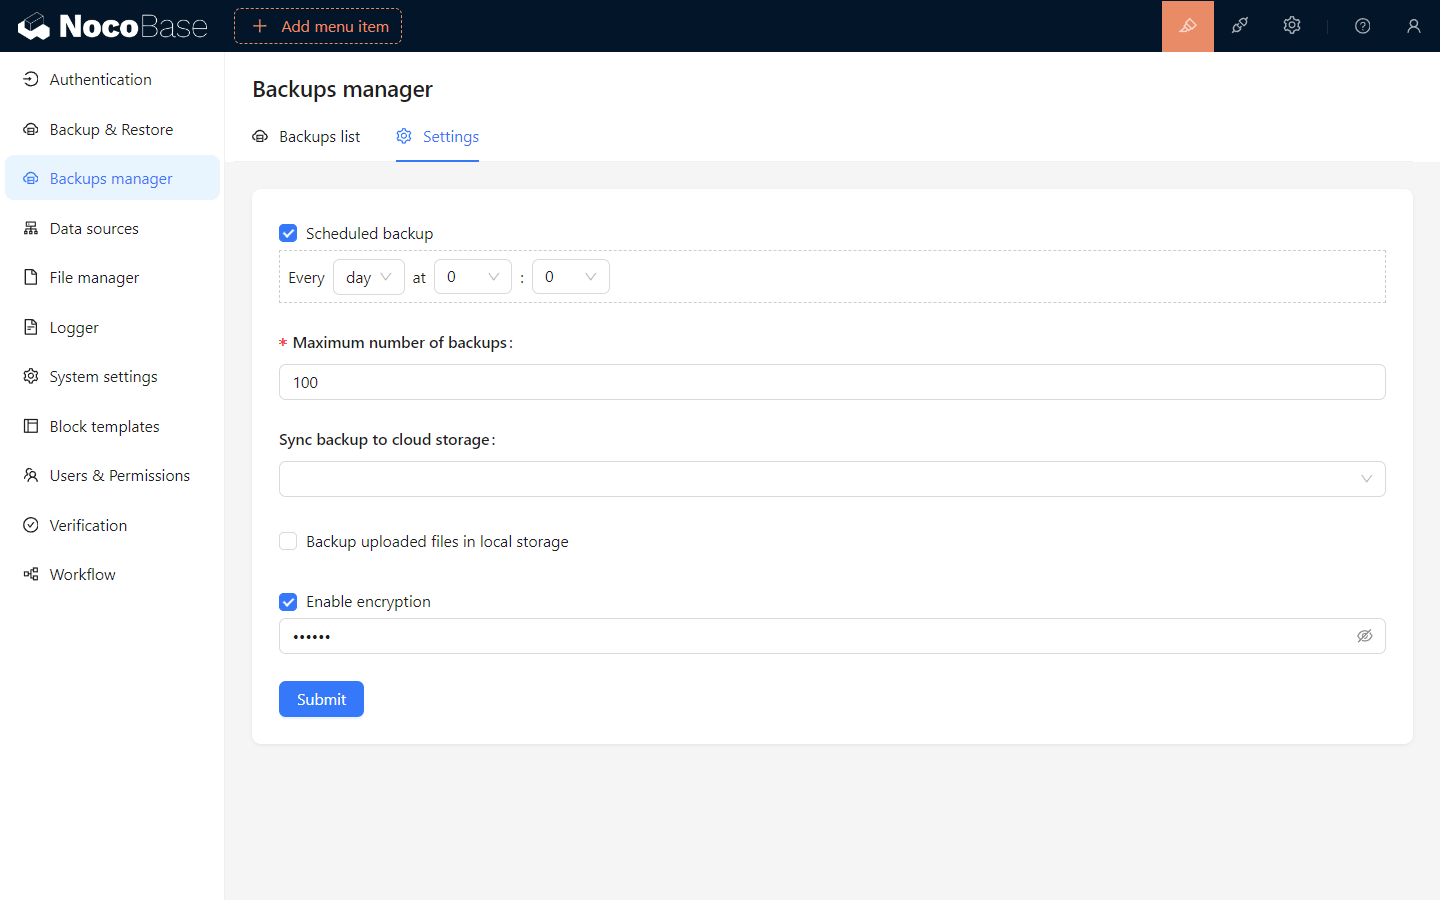
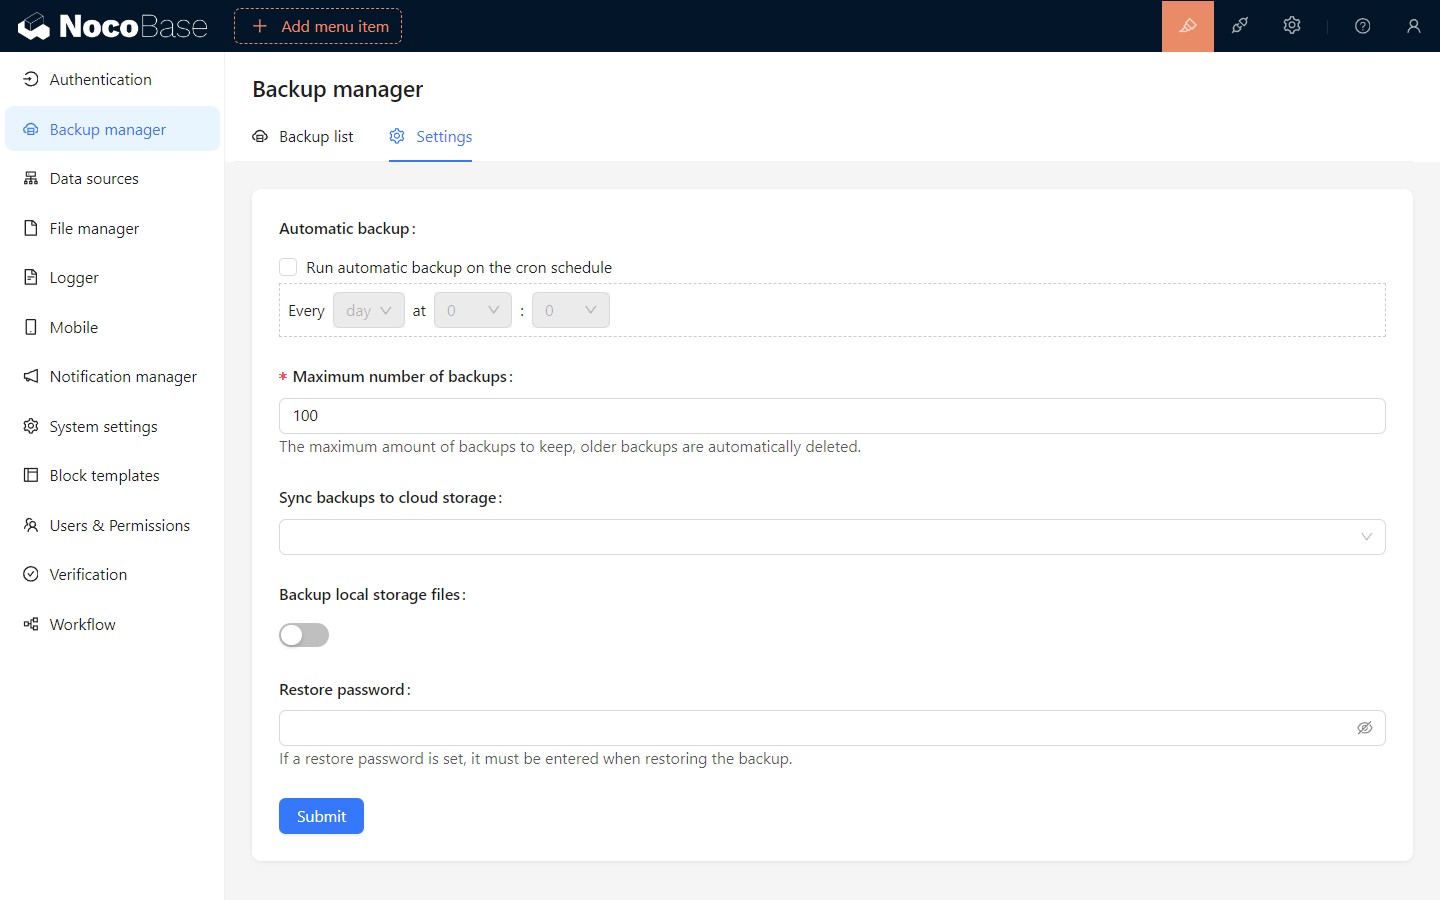
feat: improve translation

diff --git a/docs/en-US/handbook/backups/index.md b/docs/en-US/handbook/backups/index.md
@@ -78,10 +78,10 @@ Switch to the "Settings" tab, modify the backup settings, and click `Save` to ta
 
 ### Backup Settings Description
 
-- `Scheduled backup`: When enabled, you can set automatic backups at specified times.
+- `Automatic backup`: When enable `Run automatic backup on the cron schedule`, you can set automatic backups at specified times.
 - `Maximum number of backups`: Set the maximum number of locally saved backup files. After exceeding the number, the earliest backup files will be automatically deleted.
 - `Sync backup to cloud storage`: Set the cloud storage location where the backup files are automatically uploaded after successful backup, only support cloud storage.
-- `Backup uploaded files in local storage`: Whether to include files uploaded by users to the server's local storage (storage/uploads) in the backup.
-- `Enable encryption`: Whether to enable backup file encryption and set the encryption password.
+- `Backup local storage files`: Whether to include files uploaded by users to the server's local storage (storage/uploads) in the backup.
+- `Restore password`: If a restore password is set, it must be entered when restoring the backup.
 
-> **Please keep the backup file encryption password safe. Forgetting the password will make it impossible to restore the backup file.**
+> **Please keep the restore password safe. Forgetting the password will make it impossible to restore the backup file.**
